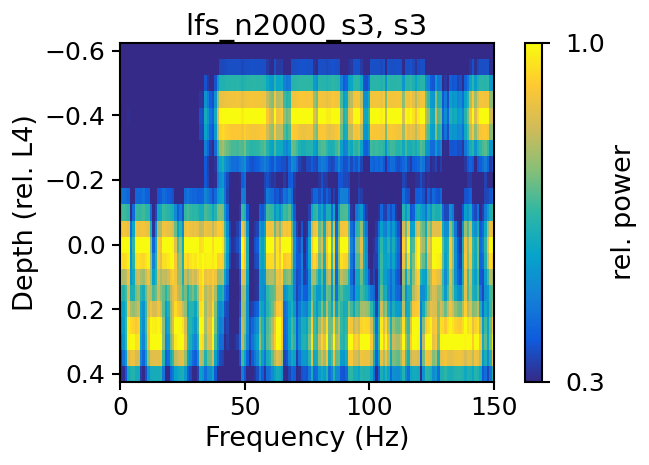
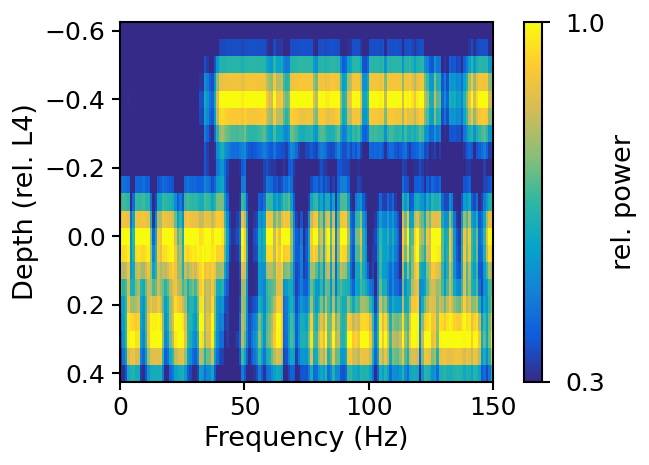
Guard the confirmed-setting claim properly, and drop the duplicated seed title from Fig S3
The guard was too weak to catch the defect it named. It collected the confirmation runs' tau sets but never compared them, and its text check was a bare "does results.tex contain 0.32--0.47". The pre-fix file assigned 0.58--0.79 to the setting and mentioned 0.32--0.47 only in a different sentence, so that check would have passed the very text that was wrong.

Now: (1) the confirmation runs must agree on layout and tau set or the guard refuses; (2) selection runs are those matching BOTH, not the layout alone; (3) each of abstract, results and discussion must state the confirmed range, and no sentence naming the setting may carry the axis-1 winner's range without it.

Proven both ways: run against the pre-fix text at 75f7d49^ it exits 1 (abstract and discussion fail); run against the current text it exits 0.

Fig S3: the embedded panel titles repeated the seed ("lfs_n1000_s1, s1" inside, "N1000 s1" outside) and leaked internal run tags into the figure. Titles removed; the panel label is the LaTeX one. Nine PNGs regenerated and re-hashed, D6 169/169, build 35 pages with 0 errors, 0 overfull, 0 float-too-large.

The reviewer's first finding was already fixed at 77cc27e, which postdates the SHA it reviewed.

diff --git a/scripts/check_confirmed_runs.py b/scripts/check_confirmed_runs.py
@@ -1,7 +1,16 @@
-"""Guard against the r_ab mix-up recurring: the confirmed setting's runs must be identified by their own records.
+"""Guard against the r_ab mix-up recurring: the confirmed setting is identified by its run records.
 
 The defect this prevents: quoting the axis-1 winner's numbers (all-unit 15 ms) as if they were the confirmed
 setting's, which is that circuit plus a 21 ms deep-unit decay. The two are different circuits with different r_ab.
+
+Checks, in order:
+ 1. Every confirmation run records the SAME layout and the SAME tau set; otherwise the guard refuses to proceed.
+ 2. The selection-seed runs are those whose layout AND tau set equal the confirmation's.
+ 3. Each of abstract.tex, results.tex and discussion.tex states the confirmed setting's selection range, and no
+    sentence there pairs the setting with the axis-1 winner's range unless it also carries the confirmed range.
+
+Check 3 exists because a bare "does the file contain 0.32--0.47" test passes the pre-fix text, which assigned
+0.58--0.79 to the setting and mentioned 0.32--0.47 only in a different sentence.
 """
 import json
 import re
@@ -11,65 +20,91 @@ from pathlib import Path
 ROOT = Path(__file__).resolve().parents[1]
 SC = ROOT / "results/viz/paper_w7/band_scatter.json"
 D = ROOT / "results/laminar_e2"
-RESULTS = ROOT / "paper/jomission_lansa/sections/results.tex"
+SEC = ROOT / "paper/jomission_lansa/sections"
+SETTING_WORDS = ("the setting", "selected setting", "confirmed setting", "frozen")
 
 
-def bands(path: Path) -> dict[str, tuple[float, float]]:
-    d = json.loads(path.read_text(encoding="utf-8"))
+def records(tags):
     out = {}
-    for group in ("ladder", "t1_sel", "t1_conf"):
-        for r in d.get(group, []):
-            out[r["tag"]] = (r["r_ab"], r["r_gm"])
+    for t in tags:
+        p = D / f"{t}.json"
+        if not p.exists():
+            return None
+        rec = json.loads(p.read_text(encoding="utf-8"))
+        out[t] = (rec["layout"], tuple(sorted(rec.get("tau_sst_e_ms", {}).items())))
     return out
 
 
+def rng(vals):
+    return f"{min(vals):.2f}", f"{max(vals):.2f}"
+
+
 def main() -> int:
-    b = bands(SC)
+    sc = json.loads(SC.read_text(encoding="utf-8"))
+    b = {r["tag"]: r for g in ("ladder", "t1_sel", "t1_conf") for r in sc.get(g, [])}
     problems = []
 
-    # the confirmed setting: identified from the run records, not from a tag prefix
     confirm = sorted(t for t in b if t.startswith("t1_confirm_"))
-    if not confirm:
-        problems.append("no t1_confirm_* runs found")
-    layouts, taus = set(), []
-    for t in confirm:
-        rec = json.loads((D / f"{t}.json").read_text(encoding="utf-8"))
-        layouts.add(rec["layout"])
-        taus.append(tuple(sorted(rec.get("tau_sst_e_ms", {}).items())))
-    if len(layouts) != 1:
-        problems.append(f"confirmation runs disagree on layout: {layouts}")
+    crec = records(confirm)
+    if not crec:
+        print("FAIL: confirmation run record missing")
+        return 1
 
-    # their selection-seed counterparts share the layout string; find them by that, not by name
-    sel_tags = []
-    for t in b:
-        if t.startswith("t1_confirm_") or not t.startswith("t1_"):
-            continue
-        p = D / f"{t}.json"
+    # 1. the confirmation runs must agree, or "the confirmed setting" has no single meaning
+    layouts = {v[0] for v in crec.values()}
+    tausets = {v[1] for v in crec.values()}
+    if len(layouts) != 1:
+        problems.append(f"confirmation runs disagree on layout: {sorted(layouts)}")
+    if len(tausets) != 1:
+        problems.append(f"confirmation runs disagree on tau set: {sorted(tausets)}")
+    if problems:
+        for p in problems:
+            print(f"FAIL: {p}")
+        return 1
+    layout, taus = next(iter(layouts)), next(iter(tausets))
+    print(f"confirmed setting: layout {layout}")
+    print("                   tau    " + ", ".join(f"{k} {v:g}" for k, v in taus))
+
+    # 2. selection runs = same layout AND same tau set
+    cand = [t for t in b if t.startswith("t1_") and not t.startswith("t1_confirm_")]
+    srec = records(cand) or {}
+    sel_tags = sorted(t for t, v in srec.items() if v == (layout, taus))
+    if not sel_tags:
+        print("FAIL: no selection-seed run matches the confirmed setting's layout and tau set")
+        return 1
+
+    sel_lo, sel_hi = rng([b[t]["r_ab"] for t in sel_tags])
+    conf_lo, conf_hi = rng([b[t]["r_ab"] for t in confirm])
+    alt_lo, alt_hi = rng([b[t]["r_ab"] for t in b if t.startswith("t1_kd1p41_n4000")])
+    print(f"  selection runs  : {', '.join(sel_tags)}")
+    print(f"  confirmation    : {', '.join(confirm)}")
+    print(f"  selection r_ab  : {sel_lo}--{sel_hi}")
+    print(f"  fresh r_ab      : {conf_lo}--{conf_hi}")
+    print(f"  axis-1 winner, different circuit: {alt_lo}--{alt_hi}")
+    if (sel_lo, sel_hi) == (alt_lo, alt_hi):
+        print("FAIL: the two circuits score the same; this guard cannot tell them apart")
+        return 1
+
+    # 3. scoped text check
+    for name in ("abstract", "results", "discussion"):
+        p = SEC / f"{name}.tex"
         if not p.exists():
             continue
-        if json.loads(p.read_text(encoding="utf-8")).get("layout") in layouts:
-            sel_tags.append(t)
+        flat = " ".join(re.sub(r"(?<!\\)%.*", "", p.read_text(encoding="utf-8")).split())
+        if f"{sel_lo}--{sel_hi}" not in flat:
+            problems.append(f"{name}.tex never states the confirmed range {sel_lo}--{sel_hi}")
+        for m in re.finditer(r"[^.]*\.", flat):
+            s = m.group(0)
+            if not any(w in s.lower() for w in SETTING_WORDS):
+                continue
+            if f"{alt_lo}--{alt_hi}" in s and f"{sel_lo}--{sel_hi}" not in s:
+                problems.append(f"{name}.tex: a sentence about the setting quotes {alt_lo}--{alt_hi} "
+                                f"(the axis-1 winner) without {sel_lo}--{sel_hi}: {s.strip()[:120]!r}")
 
-    if not sel_tags:
-        problems.append("no selection-seed runs share the confirmation layout")
-    else:
-        sel = [b[t][0] for t in sorted(sel_tags)]
-        conf = [b[t][0] for t in confirm]
-        print(f"confirmed setting layout : {sorted(layouts)[0]}")
-        print(f"  selection-seed r_ab    : {', '.join(f'{v:+.3f}' for v in sel)}  -> {min(sel):.2f}..{max(sel):.2f}")
-        print(f"  fresh-seed r_ab        : {', '.join(f'{v:+.3f}' for v in conf)}  -> {min(conf):.2f}..{max(conf):.2f}")
-        # the axis-1 winner, for contrast: this is what must NOT be quoted as the confirmed setting
-        alt = [b[t][0] for t in b if t.startswith("t1_kd1p41_n4000")]
-        if alt:
-            print(f"  axis-1 winner (different circuit) r_ab: {min(alt):+.2f}..{max(alt):+.2f}")
-        text = RESULTS.read_text(encoding="utf-8")
-        lo, hi = f"{min(sel):.2f}", f"{max(sel):.2f}"
-        if f"{lo}--{hi}" not in text.replace("0.320", "0.32").replace("0.473", "0.47"):
-            problems.append(f"results.tex never states the confirmed setting's selection range {lo}--{hi}")
-
-    for p in problems:
-        print(f"FAIL: {p}")
-    print("OK: confirmed setting identified from its own run records" if not problems else "PROBLEMS FOUND")
+    for pr in problems:
+        print(f"FAIL: {pr}")
+    print("\nOK: confirmed setting identified from its run records and the text is scoped to it"
+          if not problems else "\nPROBLEMS FOUND")
     return 0 if not problems else 1
 
 

diff --git a/scripts/e2_ladder_map.py b/scripts/e2_ladder_map.py
@@ -71,8 +71,8 @@ def one(tag: str, discard_s: float, out_dir: Path, frac: float = 0.32, suffix: s
     ax.set_xticklabels(["0", "50", "100", "150"])
     ax.set_xlabel("Frequency (Hz)", fontsize=PT_LABEL, labelpad=1.5)
     ax.set_ylabel("Depth (rel. L4)", fontsize=PT_LABEL, labelpad=1.5)
-    ax.set_title(f"{tag.replace('_T8', '').replace('sw_n4000_dens_k1_kd1_sst15', 'ref n4000')}, s{rec['seed']}",
-                 fontsize=PT_TITLE, pad=2)
+    # no title: the surrounding \panel{N1000 s1}{...} already prints the clean label, and an embedded
+    # "lfs_n1000_s1, s1" repeated the seed and carried an internal tag into the figure
     ax.tick_params(length=2, pad=1.5)
     cb = fig.colorbar(im, ax=ax, fraction=0.05, pad=0.02, ticks=[0.3, 1.0])
     cb.ax.tick_params(labelsize=PT_TICK, length=2)
